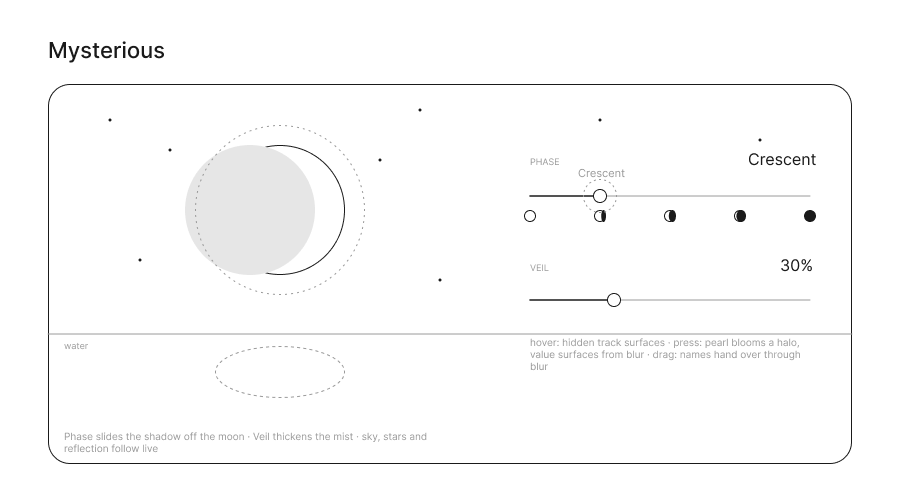
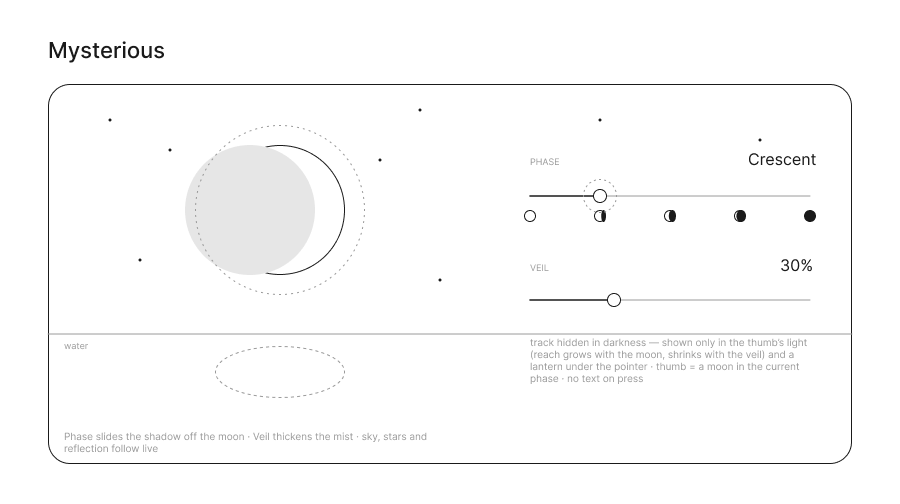
Sliders: Mysterious sliders carry the concept themselves
No text on press/drag. Tracks lie in darkness, revealed only inside the thumb's light and a
lantern under the pointer; stops stay hidden until lit. Phase's thumb is a tiny moon in the
current phase and its light reaches further as the moon fills; Veil's light shrinks and its
pearl blurs as the mist thickens. Fills are trails of light fading back into the dark.

Changed region(s): [[0.5911, 0.6548, 0.9022, 0.7738], [0.6533, 0.3274, 0.6844, 0.3571]]

diff --git a/Sliders/src/App.jsx b/Sliders/src/App.jsx
@@ -345,20 +345,42 @@ const Glyph = ({ k }) => (
   </svg>
 )
 
+// how lit a point on the track is: by the thumb's light and by the lantern under the pointer
+function lightAt(x, s, reach) {
+  const w = s.track.current?.offsetWidth || 280
+  const fromThumb = clamp(1 - (Math.abs(x - clamp(s.p)) * w) / reach)
+  const fromPointer = s.hx == null ? 0 : clamp(1 - (Math.abs(x - s.hx) * w) / 60)
+  return Math.max(fromThumb, fromPointer)
+}
+const lights = (s, reach) => ({ '--tx': `${clamp(s.p) * 100}%`, '--hx': s.hx == null ? '-200%' : `${s.hx * 100}%`, '--reach': `${reach}px` })
+
+// the Phase thumb is the moon itself, drawn in the current phase
+function MiniMoon({ k }) {
+  const id = useId().replace(/:/g, '')
+  return (
+    <svg viewBox="-10 -10 20 20" aria-hidden="true">
+      <defs><mask id={`mm${id}`}><circle r="8" fill="#fff" /><circle r="8.5" cx={-k * 17} fill="#000" /></mask></defs>
+      <circle r="8" className="mm-dark" />
+      <circle r="8" className="mm-lit" mask={`url(#mm${id})`} />
+    </svg>
+  )
+}
+
 function MoonPhase({ phase, onChange, onMorph }) {
   const s = useSlider({ t: phase / 4, onChange: (x) => onChange(Math.round(x * 4)), steps: 5, spring: MYS_SPRING })
   useEffect(() => { onMorph(clamp(s.p) * 4) }, [s.p]) // eslint-disable-line react-hooks/exhaustive-deps
   const f = clamp(s.p) * 4
+  const reach = 40 + (f / 4) * 110 // a fuller moon lights more of the path
   return (
     <div className={`mys-slider ${s.state}`} {...s.bind} aria-label="Moon phase" aria-valuemin={0} aria-valuemax={4} aria-valuenow={phase} aria-valuetext={MOON_PHASES[phase]}>
       <div className="sl-head"><span className="mys-cap">Phase</span><span className="mys-val"><Handover names={MOON_PHASES} f={f} /></span></div>
-      <div className="mys-track" ref={s.track}>
+      <div className="mys-track" ref={s.track} style={lights(s, reach)}>
+        <span className="mys-line" />
         <span className="mys-fill" style={{ width: `${clamp(s.p) * 100}%` }} />
         {MOON_PHASES.map((n, i) => (
-          <span key={n} className="mys-stop" style={{ left: `${(i / 4) * 100}%`, '--near': clamp(1 - Math.abs(f - i)) }}><Glyph k={i} /></span>
+          <span key={n} className="mys-stop" style={{ left: `${(i / 4) * 100}%`, opacity: 0.06 + lightAt(i / 4, s, reach) * 0.94 }}><Glyph k={i} /></span>
         ))}
-        <span className="mys-pearl" style={{ left: `${s.p * 100}%` }} />
-        <span className="mys-float" style={{ left: `${s.p * 100}%` }}><Handover names={MOON_PHASES} f={f} /></span>
+        <span className="mys-pearl is-moon" style={{ left: `${s.p * 100}%` }}><MiniMoon k={f / 4} /></span>
       </div>
     </div>
   )
@@ -367,14 +389,15 @@ function MoonPhase({ phase, onChange, onMorph }) {
 function MoonVeil({ t, onChange, onMorph }) {
   const s = useSlider({ t, onChange, spring: MYS_SPRING })
   useEffect(() => { onMorph(clamp(s.p)) }, [s.p]) // eslint-disable-line react-hooks/exhaustive-deps
-  const v = Math.round(clamp(s.p) * 100)
+  const v = clamp(s.p)
+  const reach = 120 - v * 85 // the thicker the veil, the less of the path you can see
   return (
     <div className={`mys-slider ${s.state}`} {...s.bind} aria-label="Veil" aria-valuemin={0} aria-valuemax={100} aria-valuenow={Math.round(t * 100)} aria-valuetext={`${Math.round(t * 100)} percent veil`}>
-      <div className="sl-head"><span className="mys-cap">Veil</span><span className="mys-val">{v}<small>%</small></span></div>
-      <div className="mys-track" ref={s.track}>
-        <span className="mys-fill" style={{ width: `${clamp(s.p) * 100}%` }} />
-        <span className="mys-pearl" style={{ left: `${s.p * 100}%` }} />
-        <span className="mys-float" style={{ left: `${s.p * 100}%` }}>{v}</span>
+      <div className="sl-head"><span className="mys-cap">Veil</span><span className="mys-val">{Math.round(v * 100)}<small>%</small></span></div>
+      <div className="mys-track" ref={s.track} style={lights(s, reach)}>
+        <span className="mys-line" />
+        <span className="mys-fill" style={{ width: `${v * 100}%` }} />
+        <span className="mys-pearl" style={{ left: `${s.p * 100}%`, filter: `blur(${v * 1.6}px)`, opacity: 1 - v * 0.35 }} />
       </div>
     </div>
   )
@@ -467,10 +490,10 @@ const SETS = [
     id: 'moon', tone: 'Mysterious', Body: MysteriousSet,
     spec: [
       ['Layout', [['Screen', 'radius 34; night scene 1fr · controls 320, padding 28 / 36'], ['Moon', 'r 64 (128 Ø); halo r 82 → 112 with Veil'], ['Water', 'lower 34 % of the scene; reflection blurred 3, 35 %']]],
-      ['Type', [['Caption', 'Inter 500 · 10 / 12 · caps · tracking 0.3em'], ['Phase name', 'Cormorant Garamond italic 400 · 26 / 30'], ['Veil value', 'Cormorant Garamond 400 · 26 / 30, % at 15'], ['Float', 'Cormorant Garamond italic 400 · 18 / 22']]],
-      ['Stepped · Phase', [['Stops', '5 — New · Crescent · Half · Gibbous · Full'], ['Track', 'h 1, #E8E6DC at 18 % (40 % on hover)'], ['Stops', 'moon glyphs 12 × 12, wake by proximity (opacity 0.35 → 1)'], ['Thumb', 'pearl 14 × 14, radial #FFF → #C9C5B8, glow 12']]],
-      ['Continuous · Veil', [['Range', '0 – 100 %, step 1'], ['Fill', 'h 1, #E8E6DC at 70 %'], ['Thumb', 'same pearl']]],
-      ['States', [['Hover', 'the hidden track surfaces (18 % → 40 %), stops brighten'], ['Pressed', 'the pearl blooms a 10 px halo; the value surfaces from a blur above it'], ['Drag', 'value floats with the pearl; names hand over through a 5 px blur; the night follows live']]],
+      ['Type', [['Caption', 'Inter 500 · 10 / 12 · caps · tracking 0.3em'], ['Phase name', 'Cormorant Garamond italic 400 · 26 / 30'], ['Veil value', 'Cormorant Garamond 400 · 26 / 30, % at 15'], ['Labels', 'no text appears on press or drag — the header and the scene carry the value']]],
+      ['Stepped · Phase', [['Stops', '5 — New · Crescent · Half · Gibbous · Full'], ['Track', 'h 1, #E8E6DC at 55 %, hidden — visible only inside the pools of light'], ['Light', 'thumb reach 40 → 150 px as the moon fills'], ['Stops', 'moon glyphs 12 × 12, 6 % in the dark → 100 % when lit'], ['Thumb', 'a moon 18 × 18 drawn in the current phase']]],
+      ['Continuous · Veil', [['Range', '0 – 100 %, step 1'], ['Fill', 'a trail of light, transparent → #E8E6DC 80 %, ending at the thumb'], ['Light', 'reach 120 → 35 px as the veil thickens'], ['Thumb', 'pearl 14 × 14, blurs up to 1.6 px with the veil']]],
+      ['States', [['Hover', 'a lantern (60 px) follows the pointer and reveals the hidden track and stops beneath it'], ['Pressed', 'the thumb blooms a 10 px halo'], ['Drag', 'the pool of light travels with the thumb; names hand over through a 5 px blur; the night follows live']]],
       ['Motion', [['Spring', 'damping 1, response 0.55 (slow, no bounce)'], ['Ambient', 'stars twinkle 6 s · mist drifts 40 s · reflection shimmers 5 s']]],
     ],
   },
@@ -478,7 +501,7 @@ const SETS = [
 
 /* ================= Figma draft thumbnail =================
    the enlarged draft is drawn above the page, so no section clips it */
-const DRAFT_VERSION = 'wire-3'
+const DRAFT_VERSION = 'wire-4'
 function DraftThumb({ set }) {
   const ref = useRef(null)
   const [box, setBox] = useState(null)

diff --git a/Sliders/src/styles.css b/Sliders/src/styles.css
@@ -147,24 +147,23 @@ main { max-width: 1040px; margin: 0 auto; padding: 48px 16px 80px; }
 .handover { position: relative; display: inline-grid; }
 .handover b { grid-area: 1 / 1; font-weight: inherit; white-space: nowrap; }
 .mys-val .handover { justify-items: end; }
-/* the track hides until you reach for it */
+/* the path lies in darkness: it shows only inside the thumb's light and a lantern under the pointer */
 .mys-track { position: relative; height: 34px; }
-.mys-track::before { content: ''; position: absolute; left: 0; right: 0; top: 50%; height: 1px; background: rgba(232,230,220,.18); transition: background-color .6s ease; }
-.mys-slider.is-hover .mys-track::before, .mys-slider.is-press .mys-track::before, .mys-slider.is-drag .mys-track::before { background: rgba(232,230,220,.4); }
-.mys-fill { position: absolute; left: 0; top: 50%; height: 1px; background: rgba(232,230,220,.7); }
-.mys-stop { position: absolute; top: 50%; width: 12px; height: 12px; transform: translate(-50%, 50%); margin-top: 6px; opacity: calc(.35 + var(--near) * .65); transition: opacity .3s; }
+.mys-line { position: absolute; left: 0; right: 0; top: 50%; height: 1px; background: rgba(232,230,220,.55);
+  -webkit-mask-image: radial-gradient(var(--reach) 12px at var(--tx) 50%, #000 35%, transparent), radial-gradient(60px 12px at var(--hx) 50%, #000 30%, transparent);
+  mask-image: radial-gradient(var(--reach) 12px at var(--tx) 50%, #000 35%, transparent), radial-gradient(60px 12px at var(--hx) 50%, #000 30%, transparent); }
+/* the fill: a trail of light fading back into the dark, like a comet's tail */
+.mys-fill { position: absolute; left: 0; top: 50%; height: 1.5px; margin-top: -.25px; background: linear-gradient(90deg, transparent, rgba(232,230,220,.8)); }
+.mys-stop { position: absolute; top: 50%; width: 12px; height: 12px; transform: translate(-50%, 50%); margin-top: 6px; }
 .mys-stop svg { display: block; width: 100%; height: 100%; }
 .g-dark { fill: none; stroke: rgba(232,230,220,.55); stroke-width: .8; } .g-lit { fill: #e8e6dc; }
-.mys-slider.is-hover .mys-stop { opacity: calc(.6 + var(--near) * .4); }
-/* the thumb: a small glowing pearl that blooms when pressed */
 .mys-pearl { position: absolute; top: 50%; width: 14px; height: 14px; border-radius: 50%; transform: translate(-50%, -50%);
   background: radial-gradient(circle at 38% 34%, #fff, #c9c5b8); box-shadow: 0 0 12px rgba(232,230,220,.45); transition: box-shadow .6s ease, scale .3s ease; }
+.mys-pearl.is-moon { width: 20px; height: 20px; background: none; }
+.mys-pearl.is-moon svg { display: block; width: 100%; height: 100%; }
+.mm-dark { fill: #1a1c33; stroke: rgba(232,230,220,.35); stroke-width: .6; } .mm-lit { fill: #ece9de; }
 .mys-slider.is-hover .mys-pearl { box-shadow: 0 0 16px rgba(232,230,220,.6); }
-.mys-slider.is-press .mys-pearl, .mys-slider.is-drag .mys-pearl { box-shadow: 0 0 0 10px rgba(232,230,220,.12), 0 0 22px rgba(232,230,220,.7); scale: .9; }
-/* while held, the value surfaces out of a blur above the pearl */
-.mys-float { position: absolute; bottom: calc(100% + 6px); transform: translateX(-50%); font: italic 400 18px/22px "Cormorant Garamond", serif; color: #f1eee3; white-space: nowrap;
-  pointer-events: none; opacity: 0; filter: blur(6px); transition: opacity .5s ease, filter .5s ease; }
-.mys-slider.is-press .mys-float, .mys-slider.is-drag .mys-float { opacity: 1; filter: blur(0); }
+.mys-slider.is-press .mys-pearl, .mys-slider.is-drag .mys-pearl { box-shadow: 0 0 0 10px rgba(232,230,220,.1), 0 0 22px rgba(232,230,220,.7); scale: .92; }
 /* subject: the night — sky, stars, moon, mist, water, all from one live state */
 .night { position: absolute; inset: 0; min-height: 380px; overflow: hidden; background: linear-gradient(var(--sky), var(--hz) 66%, #04050c 66%, #07081a); }
 .stars { position: absolute; inset: 0; opacity: calc((1 - var(--k) * .65) * (1 - var(--veil) * .85)); }
